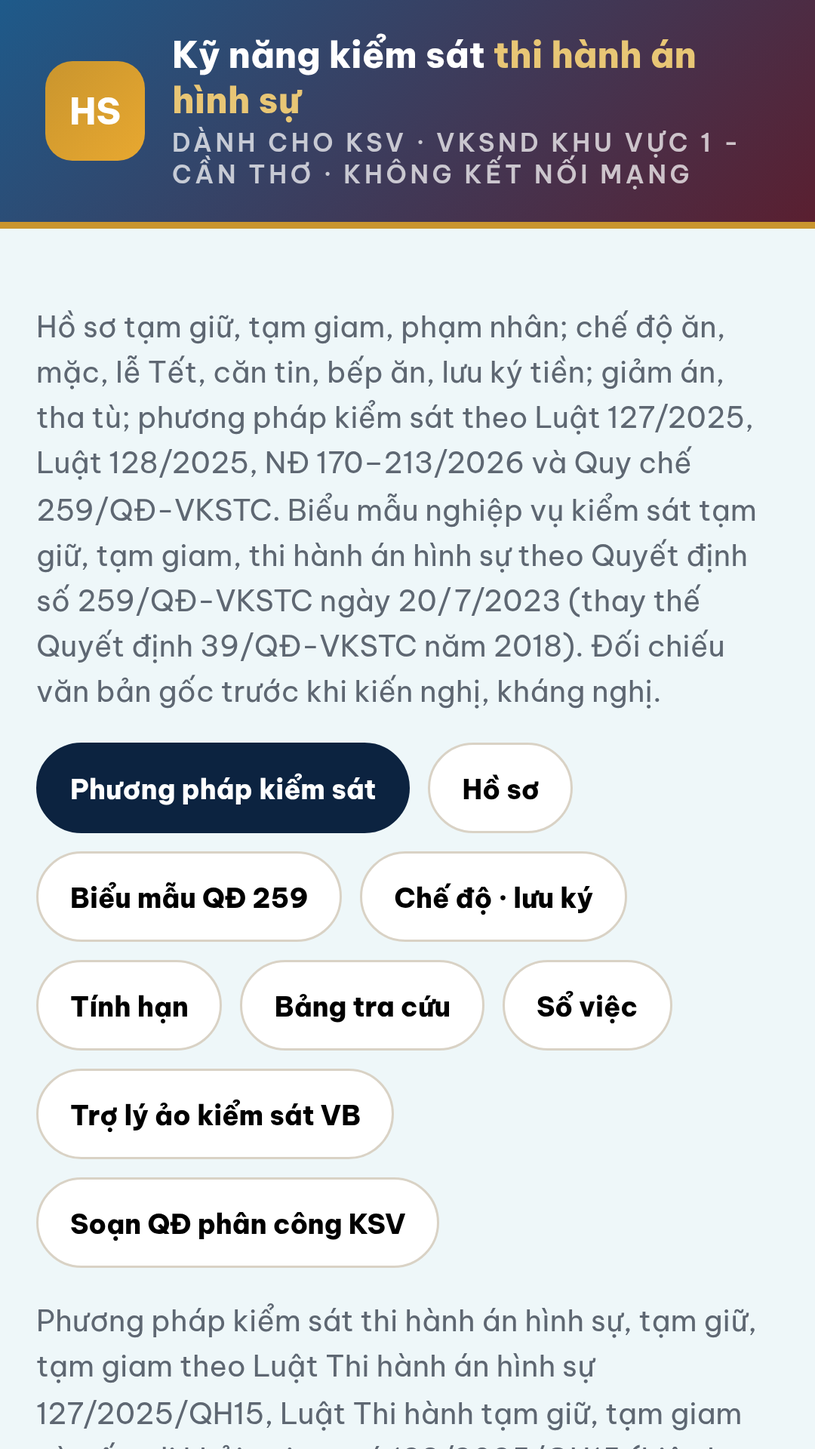
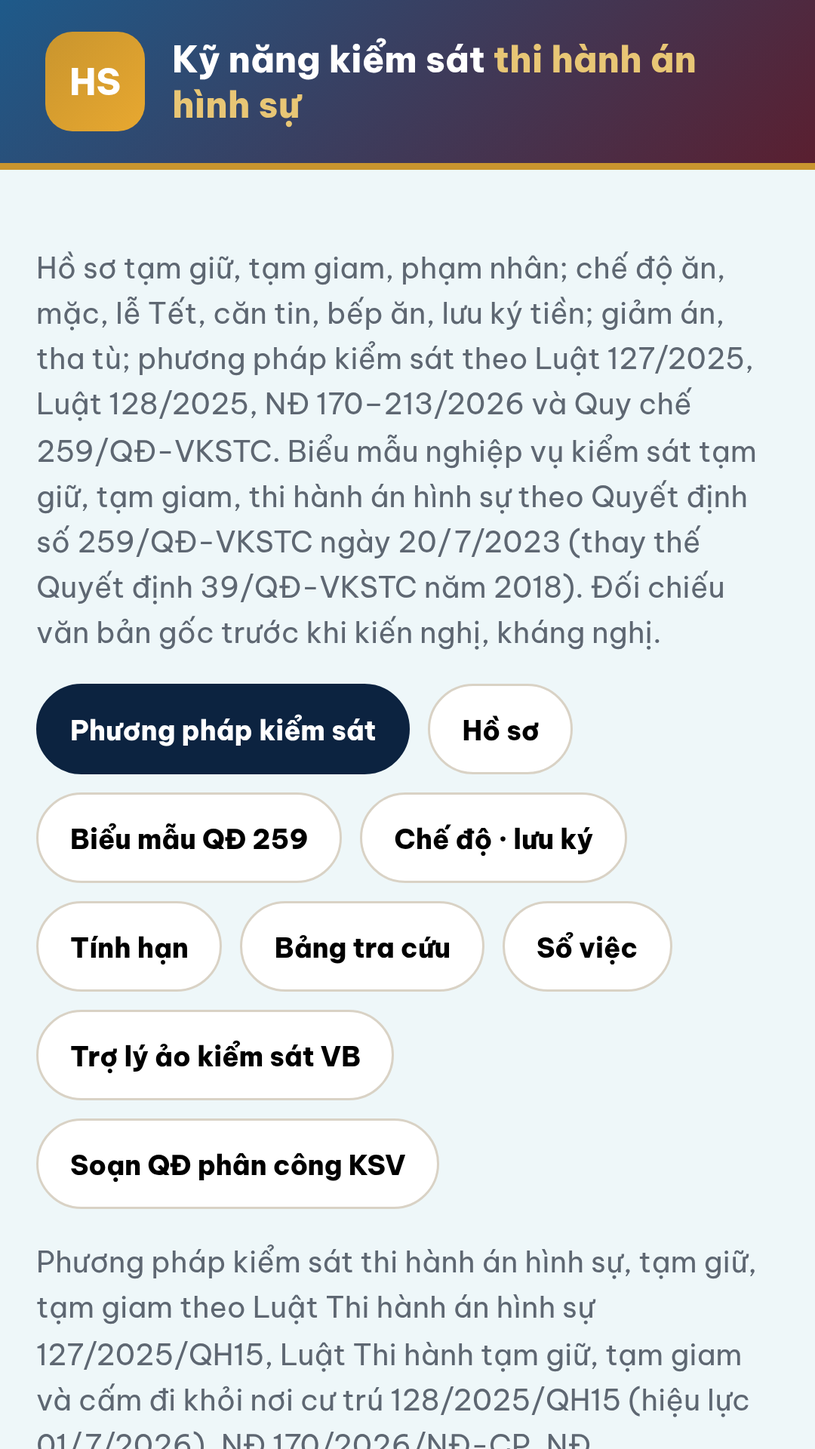
Gọn trang chủ: bỏ dòng «Dành cho KSV… Cần Thơ», chân trang chỉ «Thiên Phúc © 2026» ở trang chủ; bỏ chân trang tác giả ở trang con; xoá ghi chú offline; ảnh store mới; knks-v36

diff --git a/index.html b/index.html
@@ -8,7 +8,7 @@
     </script>
     <script src="theme.js"></script>
     <meta name="theme-color" content="#1e5a8a">
-    <meta name="description" content="Bộ kỹ năng nghiệp vụ Kiểm sát dành cho KSV Viện KSND thành phố Cần Thơ. Cài đặt trên điện thoại, vẫn xài được khi không có mạng.">
+    <meta name="description" content="Bộ kỹ năng nghiệp vụ Kiểm sát: tính thời hạn, tra cứu văn bản, mẫu văn bản, ẩn danh, OCR.">
     <meta name="apple-mobile-web-app-capable" content="yes">
     <meta name="mobile-web-app-capable" content="yes">
     <meta name="apple-mobile-web-app-status-bar-style" content="default">
@@ -283,9 +283,9 @@
             text-align: center; padding: 30px 20px 40px;
             border-top: 1px solid var(--slate-200); margin-top: 28px;
         }
-        .site-footer .footer-author { font-size: 13px; font-weight: 600; color: var(--slate-600); margin: 0; }
+        .site-footer .footer-author { font-size: 12px; font-weight: 600; color: var(--slate-500, #64748b); margin: 0; letter-spacing: .02em; }
         .site-footer .footer-author span { color: var(--teal-600); font-weight: 700; }
-        .site-footer .footer-unit { font-size: 12px; color: var(--slate-500); margin: 4px 0; }
+        .site-footer .footer-unit { font-size: 10.5px; color: var(--slate-500); opacity: .75; margin: 4px 0 0; }
         .site-footer .footer-copy { font-size: 11px; color: var(--slate-400); letter-spacing: .2px; margin: 2px 0 0; }
 
         /* ===== OS WORKSPACE ===== */
@@ -585,8 +585,7 @@
 
             <!-- THÔNG TIN VĂN BẢN -->
             <div class="text-center mt-2 space-y-2">
-                <h2 class="vks-gold-3d">Dành cho Kiểm sát viên<br><span data-don-vi="ten">Viện kiểm sát nhân dân thành phố Cần Thơ</span></h2>
-                <h1 class="text-[29px] md:text-[34px] font-extrabold tracking-wide text-white">
+                                <h1 class="text-[29px] md:text-[34px] font-extrabold tracking-wide text-white">
                     KỸ NĂNG <span class="bg-gradient-to-r from-proc-blue to-proc-neon bg-clip-text text-transparent">NGHIỆP VỤ</span>
                 </h1>
                 <p class="text-[12px] font-bold text-proc-neon tracking-widest uppercase animate-pulse pt-1" onclick="showTools()" style="cursor:pointer;">
@@ -602,7 +601,6 @@
             <div class="header-left">
                 <h1>KỸ NĂNG ỨNG DỤNG TRONG NGHIỆP VỤ KIỂM SÁT</h1>
                 <div class="header-underline"></div>
-                <p class="header-dv">Dành cho KSV · VKSND TP Cần Thơ</p>
             </div>
             <div class="header-right">
                 <div class="theme-switch" role="group" aria-label="Chọn giao diện">
@@ -631,8 +629,8 @@
         </div>
         <div class="bento-grid" id="tools-grid"></div>
         <footer class="site-footer" id="knks-ban-quyen">
-            <p class="footer-author">Tác giả: <span>THIÊN PHÚC – VIỆN KIỂM SÁT NHÂN DÂN THÀNH PHỐ CẦN THƠ</span> &copy; 2026 · Liên hệ: <a href="tel:0939103666">0939103666</a></p>
-            <p class="footer-unit footer-privacy"><span class="lnk-app"><a href="cai-dat.html">Tải ứng dụng (Android, iPhone)</a> · </span><a href="privacy.html">Chính sách dữ liệu và quyền riêng tư</a></p>
+            <p class="footer-author">Thiên Phúc &copy; 2026</p>
+            <p class="footer-unit footer-privacy"><span class="lnk-app"><a href="cai-dat.html">Tải ứng dụng</a> · </span><a href="privacy.html">Quyền riêng tư</a></p>
         </footer>
     </div>
 
@@ -675,7 +673,7 @@
                 <li>Mở trang này bằng <strong>Safari</strong> (iPhone / iPad) hoặc <strong>Chrome</strong> (Android).</li>
                 <li>iPhone: bấm nút Chia sẻ (hình vuông có mũi tên lên) rồi chọn <strong>Thêm vào Màn hình chính</strong>.</li>
                 <li>Android: <a href="cai-dat.html"><strong>tải ứng dụng Android (APK)</strong></a>, hoặc bấm <strong>Cài app</strong> trên banner / menu Chrome → Cài đặt ứng dụng.</li>
-                <li>Mở icon <strong>KN Kiểm sát</strong> trên màn hình. Tính hạn, THADS, THAHS, án hình sự, KN-TC chạy khi mất mạng.</li>
+                <li>Mở icon <strong>KN Kiểm sát</strong> trên màn hình.</li>
             </ol>
             <button type="button" class="btn-go" onclick="closeInstallSheet()">Đã hiểu</button>
         </div>
@@ -704,17 +702,17 @@
         };
 
         var TOOLS = [
-            { id:'kiem-sat-ban-an-chung', span:'span-4', badge:'KỸ NĂNG', badgeClass:'badge-teal', title:'Trợ lý ảo Kiểm sát văn bản tư pháp', desc:'Kiểm sát bản án hình sự, dân sự; quyết định thi hành án dân sự, hình sự; quyết định giải quyết khiếu nại, tố cáo.', illust:ILLUST.laser, url:'Tool/TroLyAoKiemSat/index.html', accent:'accent-vip', footer:'<span>Dành cho KSV </span><span style="margin-left:auto;">VKSND TP Cần Thơ</span>', mode:'offline', hidden:true },
-            { id:'kiem-sat-ban-an-nang-cao', extWarn:'udify.app (chatbot Dify)', span:'span-4', badge:'KỸ NĂNG', badgeClass:'badge-amber', title:'Kiểm sát Bản án hình sự, dân sự', desc:'Bản nâng cấp tối ưu đặc biệt.', illust:ILLUST.shield, url:'https://udify.app/chat/Ho3TdpoYQ9OjTbIq', accent:'accent-vip', footer:'<span>Phiên bản chuyên biệt</span><span style="margin-left:auto;">Dành cho KSV</span>', mode:'online', hidden:true },
-            { id:'soan-qd-phan-cong', span:'span-4', badge:'KỸ NĂNG', badgeClass:'badge-teal', title:'Kỹ năng tự động soạn thảo Quyết định phân công KSV – từ Thông báo thụ lý, Quyết định thi hành án (scan)', desc:'Tự động đọc và trích xuất thông tin từ Thông báo thụ lý, QĐ thi hành án hình sự/ dân sự và soạn thảo QĐ phân công KSV, trích thông tin để nhập sổ quản lý của khâu công tác.', illust:ILLUST.radarPulse, url:'Tool/SoanQdPhanCong/index.html', accent:'', footer:'Dành cho KSV VKSND TP Cần Thơ', mode:'offline', hidden:true },
-            { id:'giai-quyet-kn-tc', span:'span-4', badge:'KỸ NĂNG', badgeClass:'badge-teal', title:'Kỹ năng giải quyết khiếu nại, tố cáo — thời hạn thụ lý, xác minh, giải quyết đơn', desc:'Tự động tính thời hạn thụ lý, xác minh, giải quyết đơn khiếu nại, tố cáo; kiểm sát hạn CQĐT/Tòa án; bảng tra cứu và quy trình kỹ năng theo BLTTHS, Luật Khiếu nại, Luật Tố cáo và QĐ 50/QĐ-VKSTC 2026. Có thêm Trợ lý ảo kiểm sát văn bản và Soạn QĐ phân công KSV.', illust:ILLUST.stampClock, url:'Tool/GiaiQuyetKnTc/index.html', accent:'', footer:'Dành cho KSV VKSND TP Cần Thơ', mode:'offline' },
-            { id:'kiem-sat-thads', span:'span-4', badge:'KỸ NĂNG', badgeClass:'badge-teal', title:'Kỹ năng kiểm sát thi hành án dân sự — thời hạn, hạ giá, phí THA', desc:'Tính hạn ra QĐ THA, xác minh, thẩm định giá, bán đấu giá, thu chi tiền; tính phí THA theo Thông tư 72/2026/TT-BTC; tính % hạ giá sau đấu giá không thành; phương pháp kiểm sát kê biên, giao tài sản theo Luật 106/2025, NĐ 151–152/2026. Có thêm Trợ lý ảo kiểm sát văn bản và Soạn QĐ phân công KSV.', illust:ILLUST.gavel, url:'Tool/KiemSatThads/index.html', accent:'', footer:'Dành cho KSV VKSND TP Cần Thơ', mode:'offline' },
-            { id:'kiem-sat-thahs', span:'span-4', badge:'KỸ NĂNG', badgeClass:'badge-teal', title:'Kỹ năng kiểm sát thi hành án hình sự — hồ sơ, chế độ, giảm án', desc:'Hồ sơ tạm giữ, tạm giam, phạm nhân; chế độ ăn, mặc, lễ Tết, căn tin, bếp ăn, lưu ký tiền; tính hạn QĐ THA, giảm án, tha tù theo Luật 127/2025, Luật 128/2025, NĐ 170–213/2026. Biểu mẫu nghiệp vụ theo Quyết định số 259/QĐ-VKSTC ngày 20/7/2023. Có thêm Trợ lý ảo kiểm sát văn bản và Soạn QĐ phân công KSV.', illust:ILLUST.barsCell, url:'Tool/KiemSatThahs/index.html', accent:'', footer:'Dành cho KSV VKSND TP Cần Thơ', mode:'offline' },
-            { id:'kiem-sat-an-hs', span:'span-4', badge:'KỸ NĂNG', badgeClass:'badge-teal', title:'Kỹ năng kiểm sát án hình sự — nguồn tin, phê chuẩn, xét xử', desc:'Toàn bộ quá trình THQCT, kiểm sát nguồn tin, phê chuẩn lệnh/QĐ CQĐT, điều tra, truy tố, xét xử theo Quy chế 06, Quy chế 09, BLTTHS, Luật Tổ chức VKSND và quy trình duyệt báo cáo đề xuất của VKSND hai cấp TP Cần Thơ. Biểu mẫu tố tụng theo Thông tư số 03/2026/TT-VKSTC ngày 09/02/2026. Có thêm Trợ lý ảo kiểm sát văn bản và Soạn QĐ phân công KSV.', illust:ILLUST.scales, url:'Tool/KiemSatAnHs/index.html', accent:'', footer:'Dành cho KSV VKSND TP Cần Thơ', mode:'offline' },
-            { id:'kiem-sat-an-ds', span:'span-4', badge:'KỸ NĂNG', badgeClass:'badge-teal', title:'Kỹ năng kiểm sát án dân sự — quy chế, biểu mẫu', desc:'Phương pháp kiểm sát, tính hạn tố tụng dân sự và bảng tra cứu theo Bộ luật Tố tụng dân sự (sửa bởi Luật 85/2025). Biểu mẫu tải về theo Quyết định số 410/QĐ-VKSTC ngày 25/11/2021: 65 mẫu dân sự, 65 mẫu hành chính, 21 mẫu PL09. Quy chế Quyết định 436 ngày 28/11/2025 chưa có toàn văn. Có thêm Trợ lý ảo kiểm sát văn bản và Soạn QĐ phân công KSV.', illust:ILLUST.scales, url:'Tool/KiemSatAnDs/index.html', accent:'', footer:'Dành cho KSV VKSND TP Cần Thơ', mode:'offline' },
-            { id:'nghiep-vu-van-phong', span:'span-4', badge:'KỸ NĂNG', badgeClass:'badge-teal', title:'Kỹ năng nghiệp vụ văn phòng — báo cáo, thống kê, văn thư lưu trữ, CNTT, thi đua, tài sản công', desc:'Chín mảng công tác Văn phòng: văn thư, lưu trữ, tài sản công, lịch trực bảo vệ, thống kê (156 chỉ tiêu, biểu mẫu HS/DS), CNTT, tham mưu báo cáo, thi đua khen thưởng, xây dựng cơ bản. Mục chỉ tiêu gồm điểm KPI theo Quyết định 287/QĐ-VKSTC năm 2026 (Bảng danh mục nhiệm vụ KPI dùng chung) (bản nâng cấp đánh giá nhiệm vụ) và biểu mẫu thống kê theo Quyết định số 358/QĐ-VKSTC ngày 23/9/2025. Tính hạn theo NĐ 30/2020, Luật Lưu trữ 2024, QĐ 358/QĐ-VKSTC ngày 23/9/2025, QĐ 274/2025, TT 05/2026.', illust:ILLUST.officeDesk, url:'Tool/NghiepVuVanPhong/index.html', accent:'', footer:'Dành cho KSV VKSND TP Cần Thơ', mode:'offline' },
-            { id:'co-so-van-ban-pl', span:'span-4', badge:'KỸ NĂNG', badgeClass:'badge-teal', title:'Cơ sở dữ liệu văn bản pháp luật — luật, án lệ, quy trình, rút kinh nghiệm', desc:'Tra cứu Bộ luật, Luật, Nghị định, Thông tư, Nghị quyết, Quyết định; quy trình nghiệp vụ hình sự, dân sự, hành chính; án lệ TANDTC; thông báo rút kinh nghiệm; nghị định, thông tư, nghị quyết, quy trình và rút kinh nghiệm đã tách hình sự, dân sự, tố tụng hành chính, kinh doanh thương mại, thi hành án. Bộ luật và Luật lấy theo chỉ mục Cổng vbpl ngày 14/4/2026, cộng văn bản ngành đã rà. Dùng được khi không có mạng.', illust:ILLUST.lawBook, url:'Tool/CoSoVanBanPhapLuat/index.html', accent:'', footer:'Dành cho KSV VKSND TP Cần Thơ', mode:'offline' },
-            { id:'khoi-kien-cong-ich', span:'span-4', badge:'KỸ NĂNG', badgeClass:'badge-teal', title:'Kỹ năng khởi kiện công ích về Nghị quyết 205', desc:'Hướng dẫn nghiệp vụ, 32 biểu mẫu và soạn thảo theo Nghị quyết 205 và Thông tư liên tịch 09/2025: tiếp nhận, thu thập chứng cứ, kiến nghị, khởi kiện vụ án dân sự bảo vệ quyền lợi công ích. Cần mạng.', illust:ILLUST.scales, url:'https://hethong-quanly.github.io/nghiquyet205/', accent:'', footer:'Dành cho KSV VKSND TP Cần Thơ', mode:'online' },
+            { id:'kiem-sat-ban-an-chung', span:'span-4', badge:'KỸ NĂNG', badgeClass:'badge-teal', title:'Trợ lý ảo Kiểm sát văn bản tư pháp', desc:'Kiểm sát bản án hình sự, dân sự; quyết định thi hành án dân sự, hình sự; quyết định giải quyết khiếu nại, tố cáo.', illust:ILLUST.laser, url:'Tool/TroLyAoKiemSat/index.html', accent:'accent-vip', footer:'', mode:'offline', hidden:true },
+            { id:'kiem-sat-ban-an-nang-cao', extWarn:'udify.app (chatbot Dify)', span:'span-4', badge:'KỸ NĂNG', badgeClass:'badge-amber', title:'Kiểm sát Bản án hình sự, dân sự', desc:'Bản nâng cấp tối ưu đặc biệt.', illust:ILLUST.shield, url:'https://udify.app/chat/Ho3TdpoYQ9OjTbIq', accent:'accent-vip', footer:'<span>Phiên bản chuyên biệt</span>', mode:'online', hidden:true },
+            { id:'soan-qd-phan-cong', span:'span-4', badge:'KỸ NĂNG', badgeClass:'badge-teal', title:'Kỹ năng tự động soạn thảo Quyết định phân công KSV – từ Thông báo thụ lý, Quyết định thi hành án (scan)', desc:'Tự động đọc và trích xuất thông tin từ Thông báo thụ lý, QĐ thi hành án hình sự/ dân sự và soạn thảo QĐ phân công KSV, trích thông tin để nhập sổ quản lý của khâu công tác.', illust:ILLUST.radarPulse, url:'Tool/SoanQdPhanCong/index.html', accent:'', footer:'', mode:'offline', hidden:true },
+            { id:'giai-quyet-kn-tc', span:'span-4', badge:'KỸ NĂNG', badgeClass:'badge-teal', title:'Kỹ năng giải quyết khiếu nại, tố cáo — thời hạn thụ lý, xác minh, giải quyết đơn', desc:'Tự động tính thời hạn thụ lý, xác minh, giải quyết đơn khiếu nại, tố cáo; kiểm sát hạn CQĐT/Tòa án; bảng tra cứu và quy trình kỹ năng theo BLTTHS, Luật Khiếu nại, Luật Tố cáo và QĐ 50/QĐ-VKSTC 2026. Có thêm Trợ lý ảo kiểm sát văn bản và Soạn QĐ phân công KSV.', illust:ILLUST.stampClock, url:'Tool/GiaiQuyetKnTc/index.html', accent:'', footer:'', mode:'offline' },
+            { id:'kiem-sat-thads', span:'span-4', badge:'KỸ NĂNG', badgeClass:'badge-teal', title:'Kỹ năng kiểm sát thi hành án dân sự — thời hạn, hạ giá, phí THA', desc:'Tính hạn ra QĐ THA, xác minh, thẩm định giá, bán đấu giá, thu chi tiền; tính phí THA theo Thông tư 72/2026/TT-BTC; tính % hạ giá sau đấu giá không thành; phương pháp kiểm sát kê biên, giao tài sản theo Luật 106/2025, NĐ 151–152/2026. Có thêm Trợ lý ảo kiểm sát văn bản và Soạn QĐ phân công KSV.', illust:ILLUST.gavel, url:'Tool/KiemSatThads/index.html', accent:'', footer:'', mode:'offline' },
+            { id:'kiem-sat-thahs', span:'span-4', badge:'KỸ NĂNG', badgeClass:'badge-teal', title:'Kỹ năng kiểm sát thi hành án hình sự — hồ sơ, chế độ, giảm án', desc:'Hồ sơ tạm giữ, tạm giam, phạm nhân; chế độ ăn, mặc, lễ Tết, căn tin, bếp ăn, lưu ký tiền; tính hạn QĐ THA, giảm án, tha tù theo Luật 127/2025, Luật 128/2025, NĐ 170–213/2026. Biểu mẫu nghiệp vụ theo Quyết định số 259/QĐ-VKSTC ngày 20/7/2023. Có thêm Trợ lý ảo kiểm sát văn bản và Soạn QĐ phân công KSV.', illust:ILLUST.barsCell, url:'Tool/KiemSatThahs/index.html', accent:'', footer:'', mode:'offline' },
+            { id:'kiem-sat-an-hs', span:'span-4', badge:'KỸ NĂNG', badgeClass:'badge-teal', title:'Kỹ năng kiểm sát án hình sự — nguồn tin, phê chuẩn, xét xử', desc:'Toàn bộ quá trình THQCT, kiểm sát nguồn tin, phê chuẩn lệnh/QĐ CQĐT, điều tra, truy tố, xét xử theo Quy chế 06, Quy chế 09, BLTTHS, Luật Tổ chức VKSND và quy trình duyệt báo cáo đề xuất của VKSND hai cấp TP Cần Thơ. Biểu mẫu tố tụng theo Thông tư số 03/2026/TT-VKSTC ngày 09/02/2026. Có thêm Trợ lý ảo kiểm sát văn bản và Soạn QĐ phân công KSV.', illust:ILLUST.scales, url:'Tool/KiemSatAnHs/index.html', accent:'', footer:'', mode:'offline' },
+            { id:'kiem-sat-an-ds', span:'span-4', badge:'KỸ NĂNG', badgeClass:'badge-teal', title:'Kỹ năng kiểm sát án dân sự — quy chế, biểu mẫu', desc:'Phương pháp kiểm sát, tính hạn tố tụng dân sự và bảng tra cứu theo Bộ luật Tố tụng dân sự (sửa bởi Luật 85/2025). Biểu mẫu tải về theo Quyết định số 410/QĐ-VKSTC ngày 25/11/2021: 65 mẫu dân sự, 65 mẫu hành chính, 21 mẫu PL09. Quy chế Quyết định 436 ngày 28/11/2025 chưa có toàn văn. Có thêm Trợ lý ảo kiểm sát văn bản và Soạn QĐ phân công KSV.', illust:ILLUST.scales, url:'Tool/KiemSatAnDs/index.html', accent:'', footer:'', mode:'offline' },
+            { id:'nghiep-vu-van-phong', span:'span-4', badge:'KỸ NĂNG', badgeClass:'badge-teal', title:'Kỹ năng nghiệp vụ văn phòng — báo cáo, thống kê, văn thư lưu trữ, CNTT, thi đua, tài sản công', desc:'Chín mảng công tác Văn phòng: văn thư, lưu trữ, tài sản công, lịch trực bảo vệ, thống kê (156 chỉ tiêu, biểu mẫu HS/DS), CNTT, tham mưu báo cáo, thi đua khen thưởng, xây dựng cơ bản. Mục chỉ tiêu gồm điểm KPI theo Quyết định 287/QĐ-VKSTC năm 2026 (Bảng danh mục nhiệm vụ KPI dùng chung) (bản nâng cấp đánh giá nhiệm vụ) và biểu mẫu thống kê theo Quyết định số 358/QĐ-VKSTC ngày 23/9/2025. Tính hạn theo NĐ 30/2020, Luật Lưu trữ 2024, QĐ 358/QĐ-VKSTC ngày 23/9/2025, QĐ 274/2025, TT 05/2026.', illust:ILLUST.officeDesk, url:'Tool/NghiepVuVanPhong/index.html', accent:'', footer:'', mode:'offline' },
+            { id:'co-so-van-ban-pl', span:'span-4', badge:'KỸ NĂNG', badgeClass:'badge-teal', title:'Cơ sở dữ liệu văn bản pháp luật — luật, án lệ, quy trình, rút kinh nghiệm', desc:'Tra cứu Bộ luật, Luật, Nghị định, Thông tư, Nghị quyết, Quyết định; quy trình nghiệp vụ hình sự, dân sự, hành chính; án lệ TANDTC; thông báo rút kinh nghiệm; nghị định, thông tư, nghị quyết, quy trình và rút kinh nghiệm đã tách hình sự, dân sự, tố tụng hành chính, kinh doanh thương mại, thi hành án. Bộ luật và Luật lấy theo chỉ mục Cổng vbpl ngày 14/4/2026, cộng văn bản ngành đã rà.', illust:ILLUST.lawBook, url:'Tool/CoSoVanBanPhapLuat/index.html', accent:'', footer:'', mode:'offline' },
+            { id:'khoi-kien-cong-ich', span:'span-4', badge:'KỸ NĂNG', badgeClass:'badge-teal', title:'Kỹ năng khởi kiện công ích về Nghị quyết 205', desc:'Hướng dẫn nghiệp vụ, 32 biểu mẫu và soạn thảo theo Nghị quyết 205 và Thông tư liên tịch 09/2025: tiếp nhận, thu thập chứng cứ, kiến nghị, khởi kiện vụ án dân sự bảo vệ quyền lợi công ích. Cần mạng.', illust:ILLUST.scales, url:'https://hethong-quanly.github.io/nghiquyet205/', accent:'', footer:'', mode:'online' },
             { id:'tinh-lai-suat', span:'span-4', badge:'PHƯƠNG PHÁP', badgeClass:'badge-teal', title:'Tính lãi suất', desc:'Tự động tính tiền lãi trong hạn, lãi quá hạn, lãi chậm trả trong giao dịch dân sự.', illust:ILLUST.chartWave, url:'Tool/App_tinh_lai_suat/index.html', accent:'', footer:'', mode:'offline' },
             { id:'tinh-an-phi', span:'span-4', badge:'PHƯƠNG PHÁP', badgeClass:'badge-teal', title:'Tính án phí', desc:'Tra cứu và tự động tính nhanh số tiền án phí hình sự và dân sự.', illust:ILLUST.bars, url:'Tool/App_DS/index.html', accent:'', footer:'', mode:'offline' },
             { id:'tinh-tuoi-thoi-han', span:'span-4', badge:'PHƯƠNG PHÁP', badgeClass:'badge-teal', title:'Tính tuổi — Tính thời hạn', desc:'Tự động tính tuổi của đối tượng, tính chính xác ngày tháng năm, giờ phút, kiểm soát chặt chẽ thời hạn tạm giữ, tạm giam tố tụng.', illust:ILLUST.clockIcon, url:'Data/TinhTuoiThoiHan.html', accent:'', footer:'', mode:'offline' },
@@ -747,7 +745,7 @@
         function kindMeta(mode){
             if(mode==='online') return { label:'CẦN MẠNG', cls:'kind-online' };
             if(mode==='desktop') return { label:'MÁY TÍNH · WINDOWS', cls:'kind-desktop' };
-            return { label:'ĐIỆN THOẠI · OFFLINE', cls:'kind-offline' };
+            return null;
         }
         function showToast(msg){
             var el=document.getElementById('pwa-toast');
@@ -856,7 +854,8 @@
                 html+='<div>';
                 html+='<div class="bento-card-top"><div>';
                 html+='<div class="bento-badges"><span class="bento-card-badge '+t.badgeClass+'">'+t.badge+'</span>';
-                html+='<span class="kind-chip '+k.cls+'">'+k.label+'</span></div>';
+                if(k) html+='<span class="kind-chip '+k.cls+'">'+k.label+'</span>';
+                html+='</div>';
                 html+='<h3 class="bento-card-title">'+t.title+'</h3></div>';
                 html+='<div class="bento-illust">'+t.illust+'</div></div>';
                 html+='<p class="bento-card-desc">'+t.desc+'</p></div>';

diff --git a/privacy.html b/privacy.html
@@ -33,17 +33,17 @@
     <div class="card">
       <h2>Bên kiểm soát dữ liệu</h2>
       <ul>
-        <li>Tác giả: <strong>THIÊN PHÚC – VIỆN KIỂM SÁT NHÂN DÂN THÀNH PHỐ CẦN THƠ</strong> © 2026 — bên kiểm soát dữ liệu của ứng dụng. Liên hệ: <a href="tel:0939103666">0939103666</a>.</li>
+        <li><strong>Thiên Phúc</strong> © 2026 — bên kiểm soát dữ liệu của ứng dụng. Liên hệ: <a href="tel:0939103666">0939103666</a>.</li>
       </ul>
     </div>
     <div class="card">
       <h2>1. Dữ liệu được lưu trên chính máy của bạn</h2>
       <ul>
         <li>Phần mềm là trang web tĩnh (GitHub Pages), <strong>không có máy chủ riêng thu thập dữ liệu</strong>, không yêu cầu đăng nhập.</li>
-        <li>Văn bản bạn dán hoặc tải lên để kiểm sát, trích xuất, soạn quyết định được <strong>xử lý ngay trong trình duyệt</strong> và không gửi đi đâu ở chế độ mặc định (dò từ khoá, không cần mạng).</li>
+        <li>Văn bản bạn dán hoặc tải lên để kiểm sát, trích xuất, soạn quyết định được <strong>xử lý ngay trong trình duyệt</strong> và không gửi đi đâu ở chế độ mặc định (dò từ khoá).</li>
         <li>Một số thông tin được lưu trong bộ nhớ trình duyệt (localStorage) để tiện dùng lại: sổ việc, tên Kiểm sát viên/người ký, giao diện sáng/tối, cài đặt AI (nếu bạn tự nhập). Bạn xoá bằng cách xoá dữ liệu trang web trong cài đặt trình duyệt.</li>
         <li><strong>Đơn vị công tác</strong> (cấp Viện kiểm sát, tỉnh/thành, Viện khu vực) và họ tên, chức danh nếu bạn tự nhập ở màn hình chào: <strong>chỉ lưu trên máy này</strong> (localStorage <code>knks-don-vi</code>) để điền sẵn tên cơ quan trong mẫu văn bản; không gửi đi đâu, không gửi cho AI trừ khi nằm trong văn bản bạn tự gửi. Sửa hoặc xoá bằng nút «Đơn vị công tác» ở trang chủ.</li>
-        <li>Khi cài thành ứng dụng (PWA), các trang được lưu tạm (cache) trên máy để dùng khi không có mạng.</li>
+        <li>Khi cài thành ứng dụng (PWA), các trang được lưu tạm (cache) trên máy để mở nhanh hơn.</li>
         <li>Ứng dụng Android (tải APK tại trang <a href="cai-dat.html">Cài ứng dụng</a>) chỉ mở trang web này toàn màn hình; không xin quyền danh bạ, vị trí, máy ảnh hay bộ nhớ, không có quảng cáo, không thu thập dữ liệu.</li>
         <li>Các công cụ ẩn danh văn bản, đổi tên file, chuyển Word/PDF/ảnh sang Markdown (kể cả nhận dạng chữ OCR) chạy hoàn toàn trên máy của bạn; tệp không được gửi lên mạng.</li>
       </ul>
@@ -71,7 +71,7 @@
     </div>
     <div class="card">
       <h2>4. Liên hệ</h2>
-      <p>Tác giả: THIÊN PHÚC – VIỆN KIỂM SÁT NHÂN DÂN THÀNH PHỐ CẦN THƠ © 2026 · Liên hệ: <a href="tel:0939103666">0939103666</a>. Mã nguồn: <a href="https://github.com/hethong-quanly/kynangkiemsat" target="_blank" rel="noopener">github.com/hethong-quanly/kynangkiemsat</a>.</p>
+      <p>Thiên Phúc © 2026 · Liên hệ: <a href="tel:0939103666">0939103666</a>. Mã nguồn: <a href="https://github.com/hethong-quanly/kynangkiemsat" target="_blank" rel="noopener">github.com/hethong-quanly/kynangkiemsat</a>.</p>
       <p><a href="./">← Về trang chính</a></p>
     </div>
     <p class="foot">Cập nhật ngày 23/11/2026 (bổ sung đơn vị công tác lưu trên máy, ứng dụng Android).</p>

diff --git a/theme.js b/theme.js
@@ -63,18 +63,22 @@
     else if (mq.addListener) mq.addListener(onMq);
   } catch (e) {}
 
-  /* Chân trang bản quyền dùng chung (trang chủ có chân trang riêng: #knks-ban-quyen). */
-  var BAN_QUYEN = { ten: "THIÊN PHÚC – VIỆN KIỂM SÁT NHÂN DÂN THÀNH PHỐ CẦN THƠ", sdt: "0939103666", nam: 2026 };
+  /* Chân trang bản quyền: hiện chỉ dùng ở trang chủ (#knks-ban-quyen trong index.html); hàm chanTrang không còn được gọi. */
+  var BAN_QUYEN = { ten: "Thiên Phúc", sdt: "0939103666", nam: 2026 };
   function chanTrang() {
     if (!document.body || document.getElementById("knks-ban-quyen") || document.documentElement.hasAttribute("data-no-ban-quyen")) return;
     var f = document.createElement("footer");
     f.id = "knks-ban-quyen";
     f.setAttribute("style", "text-align:center;font:12px/1.6 'Be Vietnam Pro',Arial,sans-serif;color:inherit;opacity:.75;padding:14px 12px 22px;margin-top:8px;clear:both");
-    f.innerHTML = "T\u00e1c gi\u1ea3: <strong>" + BAN_QUYEN.ten + "</strong> \u00a9 " + BAN_QUYEN.nam + " \u00b7 Li\u00ean h\u1ec7: <a href=\"tel:" + BAN_QUYEN.sdt + "\" style=\"color:inherit;font-weight:700\">" + BAN_QUYEN.sdt + "</a>" +
-      (/\/cai-dat\.html$/.test(location.pathname) || (global.matchMedia && global.matchMedia("(display-mode: standalone)").matches) ? "" : "<br><a href=\"" + new URL("cai-dat.html", (document.querySelector('script[src$="theme.js"]') || {}).src || location.href).href + "\" style=\"color:inherit\">T\u1ea3i \u1ee9ng d\u1ee5ng (Android, iPhone)</a>");
+    var goc = (document.querySelector('script[src$="theme.js"]') || {}).src || location.href;
+    var lk = [];
+    if (!(/\/cai-dat\.html$/.test(location.pathname) || (global.matchMedia && global.matchMedia("(display-mode: standalone)").matches))) lk.push("<a href=\"" + new URL("cai-dat.html", goc).href + "\" style=\"color:inherit\">T\u1ea3i \u1ee9ng d\u1ee5ng</a>");
+    if (!/\/privacy\.html$/.test(location.pathname)) lk.push("<a href=\"" + new URL("privacy.html", goc).href + "\" style=\"color:inherit\">Quy\u1ec1n ri\u00eang t\u01b0</a>");
+    f.innerHTML = (lk.length ? "<div style=\"font-size:10.5px;opacity:.7;margin-bottom:4px\">" + lk.join(" \u00b7 ") + "</div>" : "") +
+      "<div class=\"knks-bq\">" + BAN_QUYEN.ten + " \u00a9 " + BAN_QUYEN.nam + "</div>";
     document.body.appendChild(f);
   }
-  if (document.readyState === "loading") document.addEventListener("DOMContentLoaded", chanTrang); else chanTrang();
+  // Theo yêu cầu: không hiện chân trang tác giả ở trang con (chỉ trang chủ index.html có dòng «Thiên Phúc © 2026»).
 
   /* Đơn vị công tác do người dùng chọn (chỉ lưu localStorage "knks-don-vi", không gửi đi đâu).
      Mặc định khi chưa chọn: VKSND thành phố Cần Thơ (giữ nguyên cách hiển thị cũ). */

diff --git a/AnDanh/khoi-chay.html b/AnDanh/khoi-chay.html
@@ -94,20 +94,18 @@
         <div class="header-icon"><i class="fas fa-eye-slash"></i></div>
         <div>
             <div class="header-title">Công cụ tự động <span>che thông tin</span> trong văn bản</div>
-            <div class="header-sub"><i class="fas fa-shield-alt"></i> Dành cho KSV VKSND TP Cần Thơ</div>
         </div>
     </div>
     <div class="main-content">
         <div class="info-card">
-            <div class="exclusive"><i class="fas fa-user-shield"></i> Dành cho KSV</div>
             <h2><i class="fas fa-info-circle"></i> Giới thiệu</h2>
             <p>Công cụ <strong>tự động che thông tin trong văn bản</strong> giúp bạn nhanh chóng phát hiện và che giấu các thông tin nhạy cảm như: họ tên, số điện thoại, số CMND/CCCD, địa chỉ, ngày tháng năm sinh, số tài khoản ngân hàng, và nhiều loại dữ liệu cá nhân khác trong các văn bản.</p>
             <ul>
                 <li><i class="fas fa-check-circle"></i> Hỗ trợ định dạng văn bản: .docx</li>
-                <li><i class="fas fa-check-circle"></i> Tự động nhận diện thông tin cần che không cần mạng internet</li>
+                <li><i class="fas fa-check-circle"></i> Tự động nhận diện thông tin cần che</li>
                 <li><i class="fas fa-check-circle"></i> Giao diện trực quan, dễ sử dụng</li>
                 <li><i class="fas fa-check-circle"></i> Xử lý nhanh chóng, chính xác</li>
-                <li><i class="fas fa-check-circle"></i> Bảo mật tuyệt đối — xử lý hoàn toàn trên máy offline, không gửi dữ liệu lên mạng, tự xóa file sau khi tắt phần mềm</li>
+                <li><i class="fas fa-check-circle"></i> Bảo mật tuyệt đối — xử lý hoàn toàn trên máy, không gửi dữ liệu lên mạng, tự xóa file sau khi tắt phần mềm</li>
             </ul>
         </div>
         <div class="launch-section">
@@ -119,8 +117,6 @@
         <div class="info-card">
             <h2><i class="fas fa-code-branch"></i> Thông tin phát triển</h2>
             <div class="dev-info">
-                <p><i class="fas fa-building"></i> Đơn vị: <strong>Viện Kiểm sát nhân dân thành phố Cần Thơ</strong></p>
-                <p><i class="fas fa-stamp"></i> Phạm vi: <strong>Dành cho KSV</strong></p>
                 <p><i class="fas fa-tools"></i> Phiên bản: <strong>1.0</strong></p>
             </div>
             <div class="note-box">

diff --git a/Tool/CoSoVanBanPhapLuat/index.html b/Tool/CoSoVanBanPhapLuat/index.html
@@ -167,7 +167,6 @@ html[data-theme="dark"] .vb-item { color:#c5d0db; }
     <div class="hdr-icon">VB</div>
     <div>
       <h1>Cơ sở dữ liệu <span>văn bản pháp luật</span></h1>
-      <p>Dành cho KSV · VKSND TP Cần Thơ · Không kết nối mạng</p>
     </div>
     <button type="button" class="vb-menu btn" style="margin-left:auto;background:rgba(255,255,255,.12);color:#fff;border-color:rgba(255,255,255,.2)" data-menu="1">☰ Danh mục</button>
   </header>
@@ -182,7 +181,6 @@ html[data-theme="dark"] .vb-item { color:#c5d0db; }
         <div style="width:32px;height:32px;border-radius:8px;background:#1B3A7A;display:flex;align-items:center;justify-content:center">⚖</div>
         <div style="flex:1">
           <b>Tra cứu trong kho</b>
-          <small>● Không cần mạng</small>
         </div>
         <button type="button" class="vb-menu btn" data-ai="1">✕</button>
       </div>
@@ -9479,7 +9477,7 @@ var VanBanPl = (() => {
     {
       id: 0,
       role: "ai",
-      text: "Xin chào bạn. Tôi tra cứu trong kho văn bản pháp luật, quy trình, án lệ, rút kinh nghiệm và công văn của Viện KSND thành phố Cần Thơ — không cần mạng.\n\nBạn hỏi số hiệu, tên luật, án lệ hoặc tình huống nghiệp vụ.",
+      text: "Xin chào bạn. Tôi tra cứu trong kho văn bản pháp luật, quy trình, án lệ, rút kinh nghiệm và công văn của Viện KSND thành phố Cần Thơ.\n\nBạn hỏi số hiệu, tên luật, án lệ hoặc tình huống nghiệp vụ.",
     },
   ];
 
@@ -9675,7 +9673,7 @@ var VanBanPl = (() => {
       );
     }).join("");
     return (
-      '<div class="vb-welcome"><div class="vb-ico">⚖</div><h2>Kho văn bản pháp luật và nghiệp vụ kiểm sát</h2><p>Chọn nhóm danh mục bên trái hoặc gõ từ khóa để tra cứu. Dữ liệu nằm trong phần mềm — dùng được khi không có mạng.</p><div class="vb-stats">' +
+      '<div class="vb-welcome"><div class="vb-ico">⚖</div><h2>Kho văn bản pháp luật và nghiệp vụ kiểm sát</h2><p>Chọn nhóm danh mục bên trái hoặc gõ từ khóa để tra cứu. Dữ liệu nằm trong phần mềm.</p><div class="vb-stats">' +
       stats +
       '</div><div class="vb-quick">' +
       btns +

diff --git a/Tool/PdfToMd/index.html b/Tool/PdfToMd/index.html
@@ -14,7 +14,7 @@
     <div class="hdr-icon">PDF</div>
     <div>
       <h1>Chuyển PDF, ảnh <span>sang Markdown</span></h1>
-      <p>Dành cho KSV · VKSND TP Cần Thơ · Chạy trên trình duyệt, không gửi tệp đi</p>
+      <p>Chạy trên trình duyệt, không gửi tệp đi</p>
     </div>
   </header>
   <div class="wrap">
@@ -31,7 +31,7 @@
       </div>
       <label class="chk"><input type="checkbox" id="optOcr" checked /> Tự nhận dạng chữ (OCR) cho trang scan / ảnh</label>
       <label class="chk"><input type="checkbox" id="optForce" /> OCR cả trang đã có lớp chữ (khi chữ trích ra bị lỗi phông)</label>
-      <p class="muted">Lần OCR đầu tiên tải bộ nhận dạng tiếng Việt (~9,6 MB) từ chính ứng dụng, sau đó chạy được khi không có mạng. OCR mất khoảng 5–20 giây mỗi trang tùy máy.</p>
+      <p class="muted">Lần OCR đầu tiên tải bộ nhận dạng tiếng Việt (~9,6 MB) từ chính ứng dụng. OCR mất khoảng 5–20 giây mỗi trang tùy máy.</p>
     </div>
     <div class="card" id="outCard" hidden>
       <div class="row" style="justify-content:space-between;align-items:center;margin-top:0">

diff --git a/Tool/AnDanh/index.html b/Tool/AnDanh/index.html
@@ -285,7 +285,7 @@
                 <li><i class="fas fa-check-circle"></i> Tự động nhận diện thông tin cần che không cần mạng internet</li>
                 <li><i class="fas fa-check-circle"></i> Giao diện trực quan, dễ sử dụng</li>
                 <li><i class="fas fa-check-circle"></i> Xử lý nhanh chóng, chính xác</li>
-                <li><i class="fas fa-check-circle"></i> Bảo mật tuyệt đối - xử lý hoàn toàn trên máy offline, không gửi dữ liệu lên mạng, tự xóa file sau khi tắt phần mềm</li>
+                <li><i class="fas fa-check-circle"></i> Bảo mật tuyệt đối - xử lý hoàn toàn trên máy, không gửi dữ liệu lên mạng, tự xóa file sau khi tắt phần mềm</li>
             </ul>
         </div>
 
@@ -304,7 +304,6 @@
         <div class="info-card">
             <h2><i class="fas fa-code-branch"></i> Thông tin phát triển</h2>
             <div class="dev-info">
-                <p><i class="fas fa-building"></i> Văn phòng <strong>VKSND TP.Cần Thơ</strong></p>
                 <p><i class="fas fa-tools"></i> Phiên bản: <strong>1.0</strong></p>
             </div>
 

diff --git a/AnDanh/index.html b/AnDanh/index.html
@@ -64,11 +64,10 @@
     <div class="privacy">
       <div>
         <strong>Xử lý trên máy của bạn</strong> — không gửi tệp lên mạng.
-        <div><small>Dành cho KSV VKSND TP Cần Thơ</small></div>
       </div>
       <button class="btn btn-ghost" type="button" id="btnHelp" style="color:#e8c675;background:transparent;border-color:rgba(232,198,117,.4)">Hướng dẫn</button>
     </div>
-    <p class="kicker">Công cụ nghiệp vụ · chạy trên trình duyệt, không cần mạng</p>
+    <p class="kicker">Công cụ nghiệp vụ · chạy trên trình duyệt</p>
     <h1>Tự động che thông tin trong văn bản</h1>
     <p class="muted">Chọn file Word (.docx), .txt hoặc dán văn bản. Công cụ nhận diện họ tên, CCCD, SĐT, địa chỉ, ngày sinh, STK, email, biển số, MST.</p>
     <div id="idle">

diff --git a/static/js/don-vi.js b/static/js/don-vi.js
@@ -65,7 +65,7 @@
       var c = $("dv-cap").value;
       $("dv-w-cc").hidden = c !== "cap-cao"; $("dv-w-t").hidden = !(c === "tinh" || c === "khu-vuc"); $("dv-w-kv").hidden = c !== "khu-vuc";
       var i = D.info(val());
-      $("dv-prev").innerHTML = "Hiển thị: <strong>Dành cho KSV · " + esc(i.ngan) + "</strong><br>Tiêu đề văn bản: " + esc(i.tieuDe.join(" ")) + " · " + esc(i.diaDanh) + ", ngày …";
+      $("dv-prev").innerHTML = "Đơn vị: <strong>" + esc(i.ngan) + "</strong><br>Tiêu đề văn bản: " + esc(i.tieuDe.join(" ")) + " · " + esc(i.diaDanh) + ", ngày …";
     }
     fillKv(); sync();
     $("dv-cap").onchange = sync; $("dv-cc").onchange = sync; $("dv-kv").onchange = sync;

diff --git a/Tool/TroLyAoKiemSat/index.html b/Tool/TroLyAoKiemSat/index.html
@@ -69,7 +69,7 @@ td { padding:8px 10px; border-bottom:1px solid #f1f5f9; vertical-align:top; }
     <div class="hdr-icon">AI</div>
     <div>
       <h1>Trợ lý ảo <span>Kiểm sát văn bản tư pháp</span></h1>
-      <p>Dành cho KSV · VKSND TP Cần Thơ · Chạy trên trình duyệt</p>
+      <p>Chạy trên trình duyệt</p>
     </div>
   </header>
   <div class="wrap">

diff --git a/cai-dat.html b/cai-dat.html
@@ -46,7 +46,7 @@
 <body>
   <header class="hdr">
     <img src="icons/icon-192.png" alt="" />
-    <div><h1>Cài ứng dụng Kỹ năng Kiểm sát</h1><p>Miễn phí · Android và iPhone · Dùng được khi không có mạng</p></div>
+    <div><h1>Cài ứng dụng Kỹ năng Kiểm sát</h1><p>Miễn phí · Android và iPhone</p></div>
   </header>
   <div class="wrap">
 

diff --git a/Tool/KiemSatThahs/index.html b/Tool/KiemSatThahs/index.html
@@ -69,7 +69,6 @@ td { padding:8px 10px; border-bottom:1px solid #f1f5f9; vertical-align:top; }
     <div class="hdr-icon">HS</div>
     <div>
       <h1>Kỹ năng kiểm sát <span>thi hành án hình sự</span></h1>
-      <p>Dành cho KSV · VKSND TP Cần Thơ · Không kết nối mạng</p>
     </div>
   </header>
   <div class="wrap">
